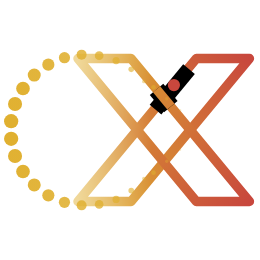
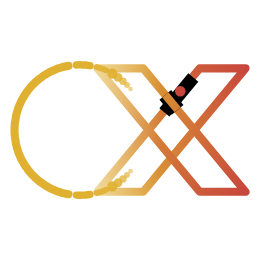
ConstruAVX CX: solid C dissolving into dots; remove background stars from all pieces
Claude-Session: https://claude.ai/code/session_01SyEUPzv47j4v1ivZ7w3zNj

Changed region(s): [[0.0, 0.1846, 0.9846, 0.8308]]

diff --git a/branding/perfiles.md b/branding/perfiles.md
@@ -33,7 +33,7 @@
 
 ## ConstruAVX
 
-> **Símbolo propio: monograma CX.** La C está hecha de puntos que se achican y se desvanecen hacia la X; la X se difumina por su lado izquierdo para fundirse con la C. ProduAVX conserva la X sola, con su degradado azul→verde.
+> **Símbolo propio: monograma CX.** La C nace sólida, con el mismo trazo que la X, y hacia la X se rompe en rayas cada vez más cortas y luego en puntos que se funden con la X; la X se difumina por su lado izquierdo. Las piezas ya no llevan estrellas de fondo. ProduAVX conserva la X sola, con su degradado azul→verde.
 
 - **Nombre:** ConstruAVX
 - **Usuario sugerido:** `@construavx`
